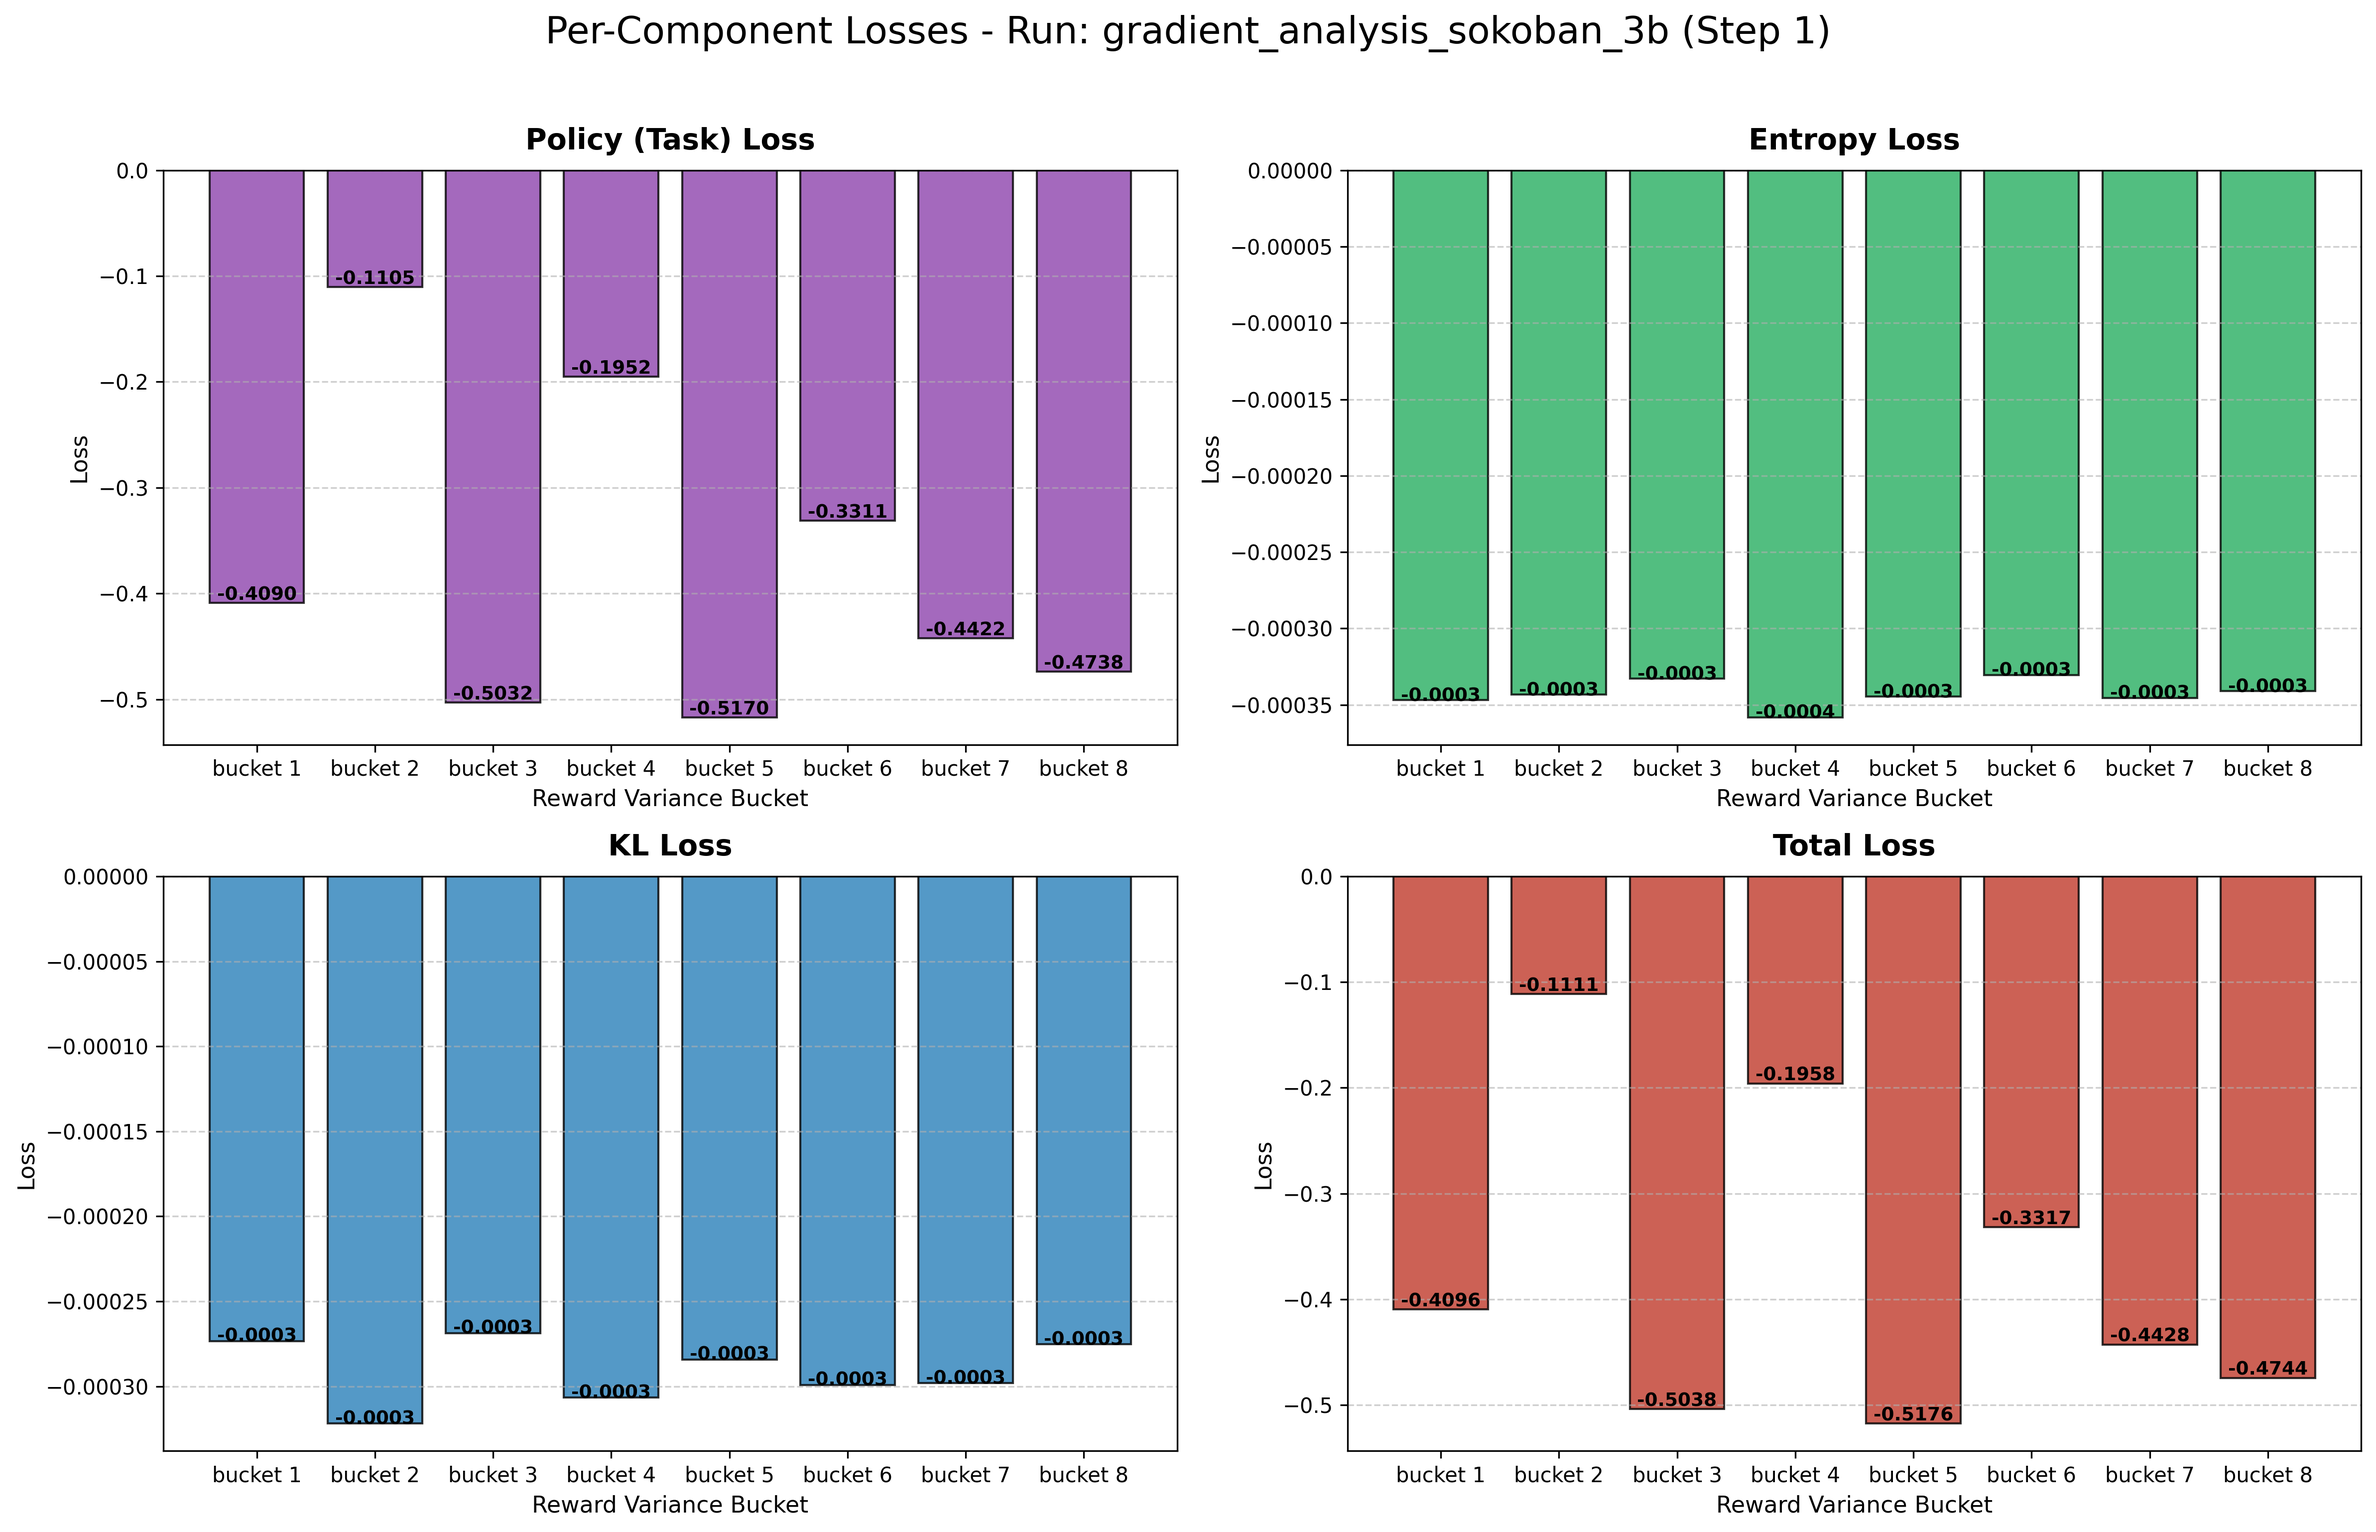
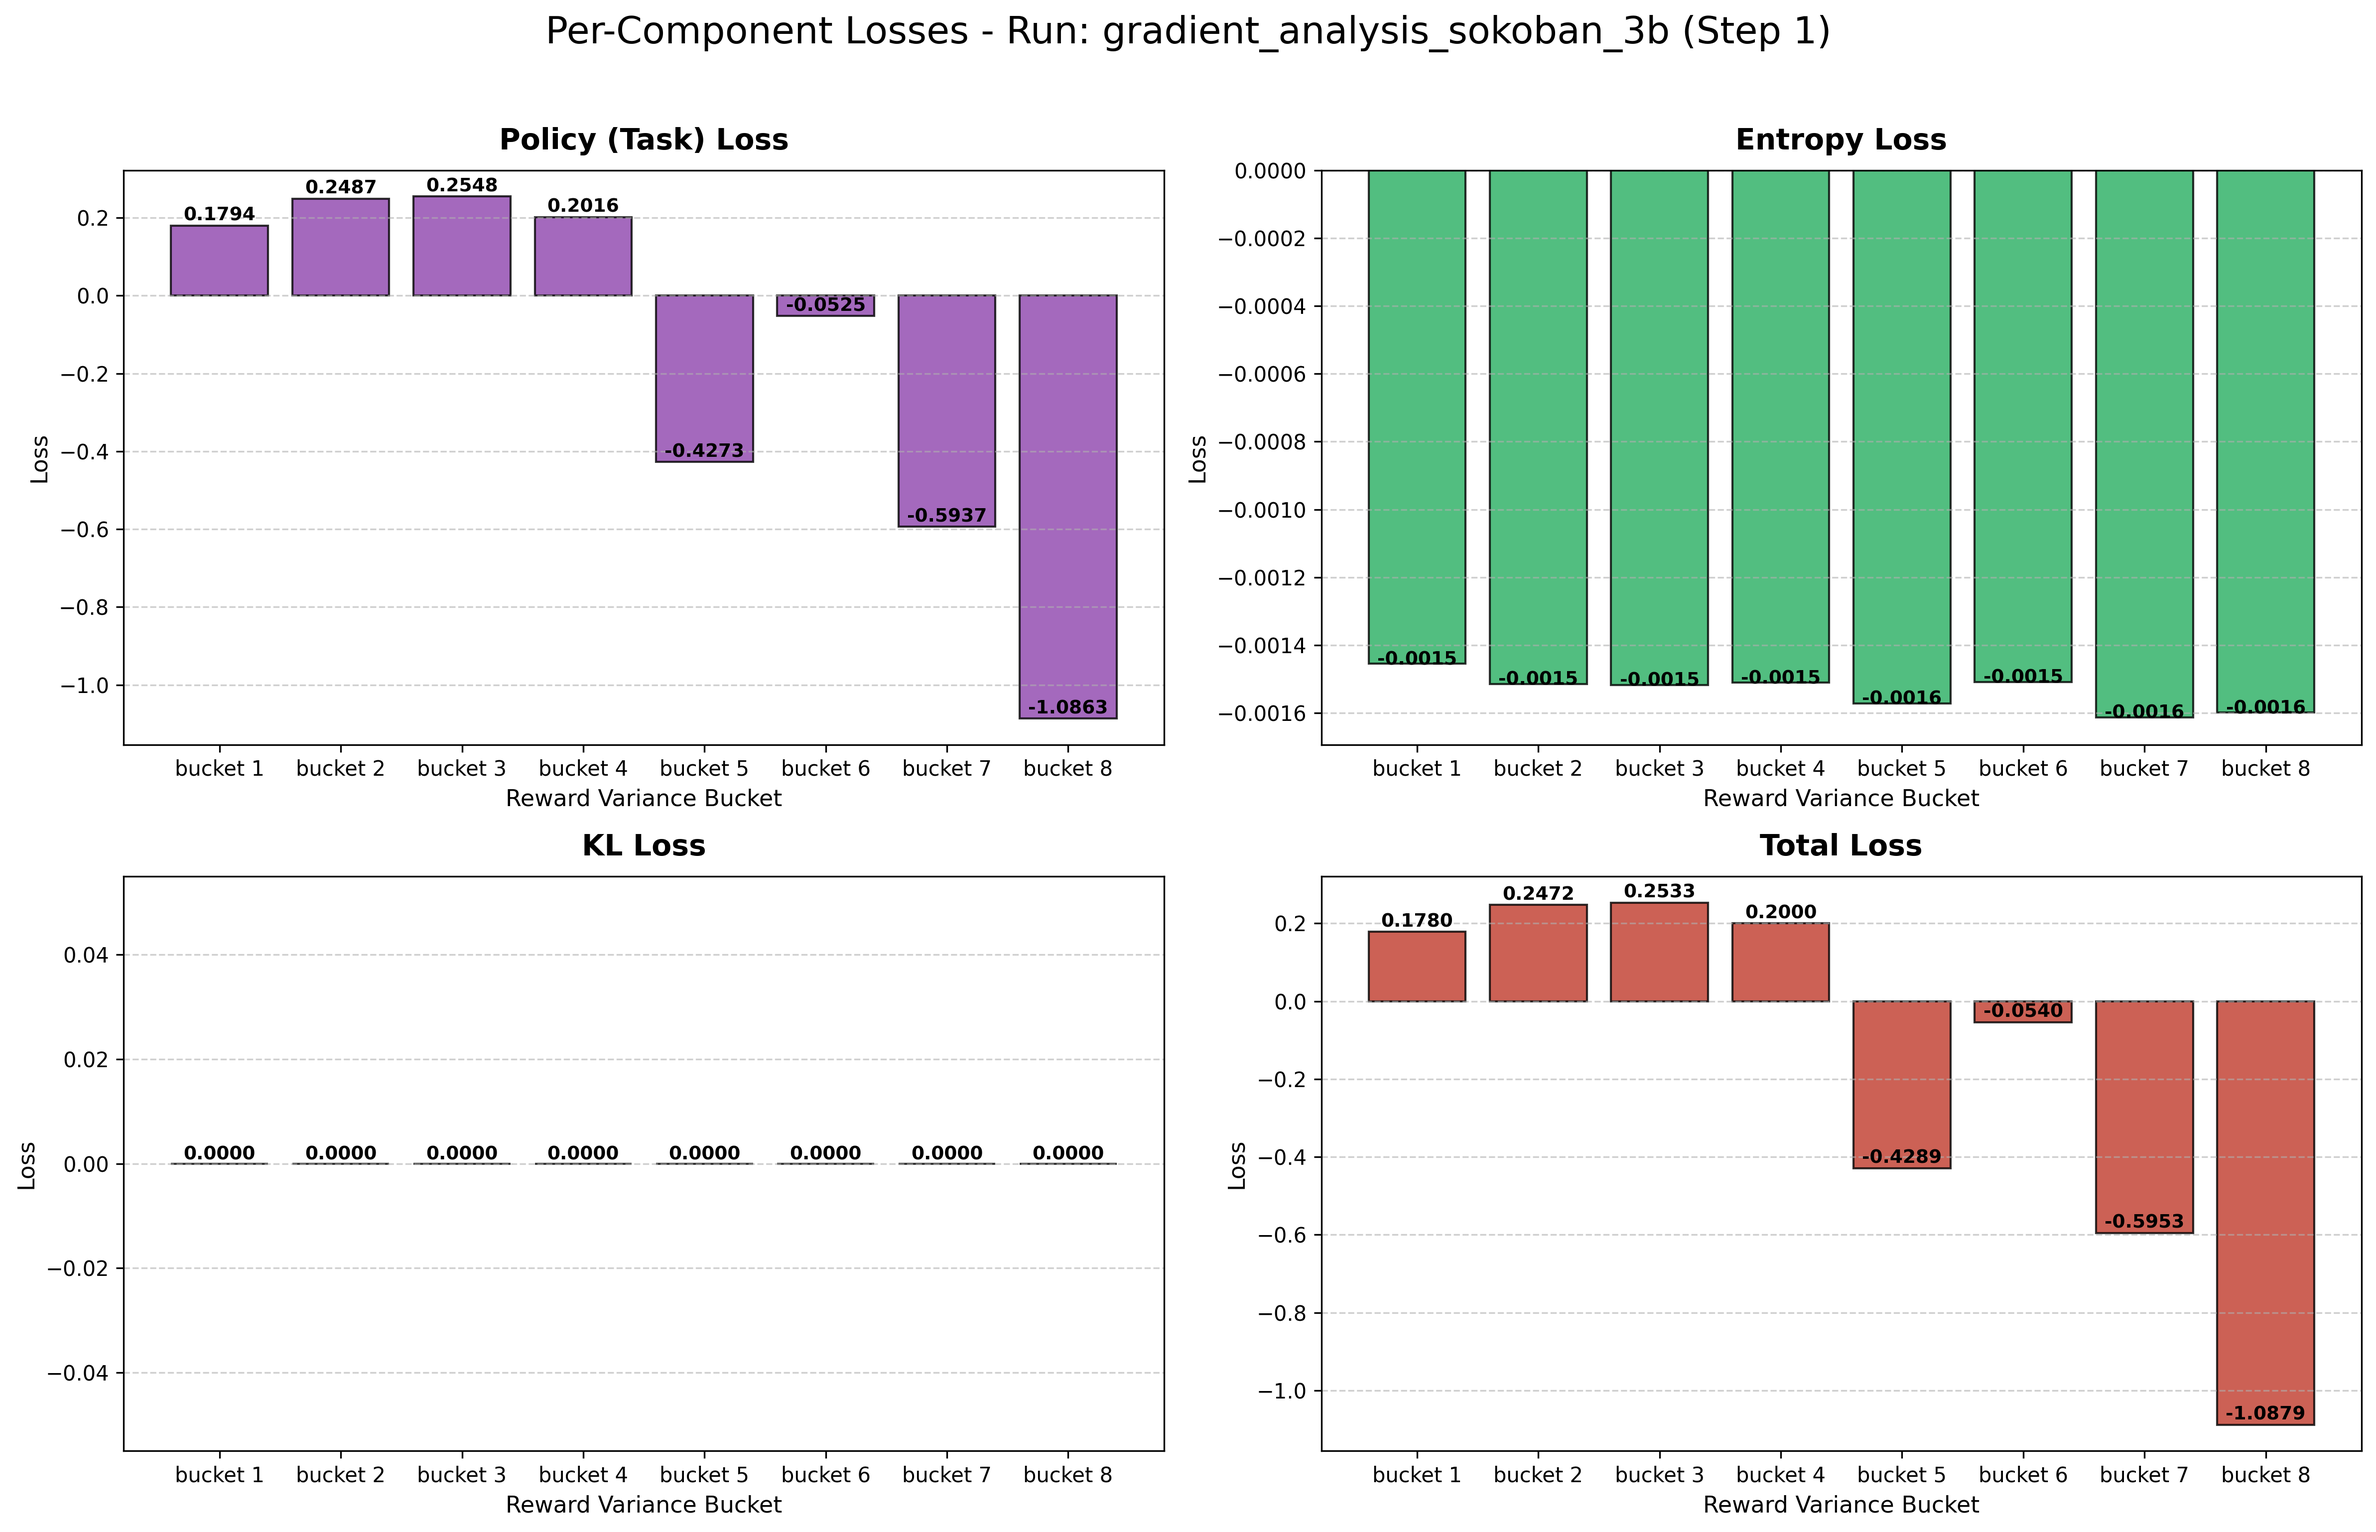
Update plots for run grfp9xqf

diff --git a/plot_gradient_analysis.py b/plot_gradient_analysis.py
@@ -3,7 +3,7 @@ import matplotlib.pyplot as plt
 import os
 
 # CONFIGURATION
-WANDB_PATH = "deimos-xing/AGEN_gradient_analysis/jkvkalpa"
+WANDB_PATH = "deimos-xing/AGEN_gradient_analysis/grfp9xqf"
 BUCKETS = [
     "bucket_1",
     "bucket_2",
